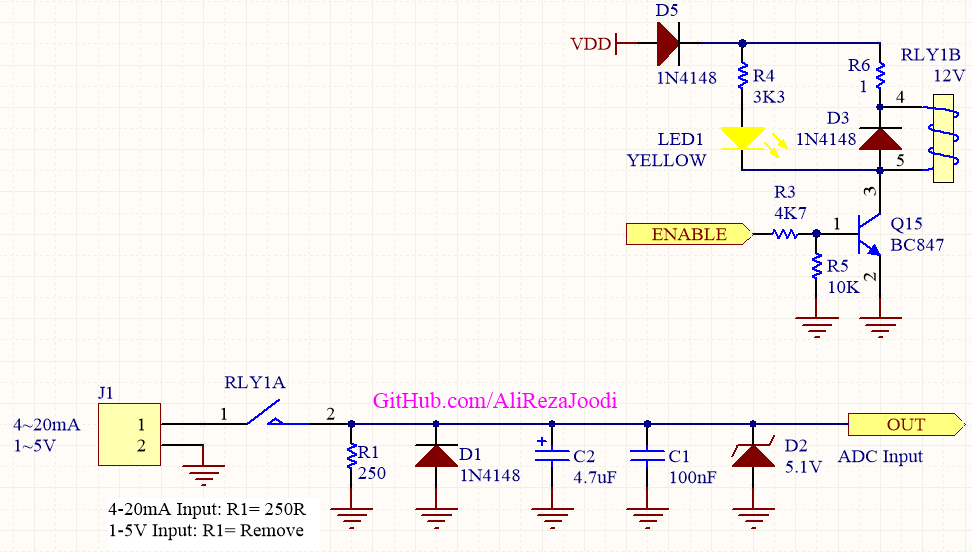
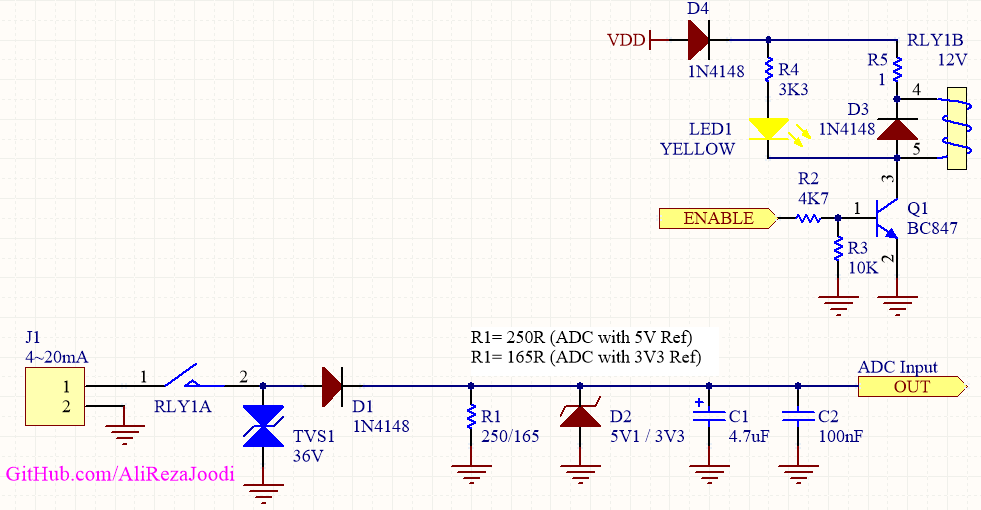
Update

diff --git a/MCU_ADC_ExternalSource/README.md b/MCU_ADC_ExternalSource/README.md
@@ -1,4 +1,4 @@
-## ADC Input For 4-20mA and 1-5V
+## ADC Input For 4-20mA
 About a board that includes an AVR and connects to a 4-20mA external source.  
 If you turn off the power supply while a ADC input connected to 4-20mA, The MCU won’t turn off completely.  
 Therefore, after turn on the power supply, the MCU will behave unreliable.  
